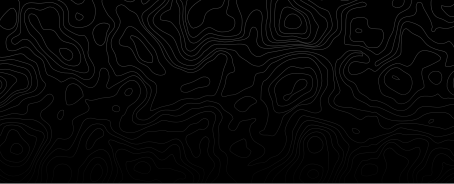
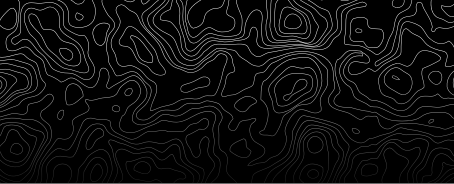
Even more dark mode updates

diff --git a/screens/LandingScreen.js b/screens/LandingScreen.js
@@ -6,7 +6,8 @@ import { spacing } from '../constants/Index';
 import { RootView } from '../styles/Screens';
 import { withTheme } from '../utils/Themes';
 
-const backgroundImg = require('../assets/landing-bg.png');
+const backgroundImageDefault = require('../assets/default/landing-bg.png');
+const backgroundImageDark = require('../assets/dark/landing-bg.png');
 
 class LandingScreen extends React.Component {
     constructor(props) {
@@ -33,17 +34,30 @@ class LandingScreen extends React.Component {
                 }),
             ]),
         ).start();
+
+        this.setBackgroundImage();
     }
 
+    setBackgroundImage = () => {
+        const { theme } = this.props;
+        let backgroundImage = backgroundImageDefault;
+
+        if (theme.dark) {
+            backgroundImage = backgroundImageDark;
+        }
+
+        this.setState({ backgroundImage });
+    };
+
     render() {
-        const { left } = this.state;
+        const { left, backgroundImage } = this.state;
         const { navigation, theme } = this.props;
 
         return (
             <ThemeProvider theme={theme.colors}>
                 <RootView>
                     <AnimatedBackgroundWrapper style={{ left }}>
-                        <LandingBackground source={backgroundImg} />
+                        <LandingBackground source={backgroundImage} />
                     </AnimatedBackgroundWrapper>
                     <ButtonWrapper>
                         <LandingButton

diff --git a/components/LoadingOverlay.js b/components/LoadingOverlay.js
@@ -2,7 +2,7 @@ import React from 'react';
 import PropTypes from 'prop-types';
 import styled from 'styled-components';
 import { ActivityIndicator, Keyboard } from 'react-native';
-import { colors } from '../constants/Index';
+import { withTheme } from '../utils/Themes';
 
 const propTypes = {
     loading: PropTypes.bool,
@@ -22,14 +22,14 @@ class LoadingOverlay extends React.Component {
     }
 
     render() {
-        const { loading } = this.props;
+        const { loading, theme } = this.props;
 
         return (
             <LoadingView loading={loading}>
                 <ActivityView>
                     <ActivityIndicator
                         size='small'
-                        color={colors.grayDark}
+                        color={theme.loadingSpinner}
                         style={{
                             zIndex: 1,
                             transform: [{ scaleX: 1.5 }, { scaleY: 1.5 }],
@@ -44,7 +44,7 @@ class LoadingOverlay extends React.Component {
 LoadingOverlay.propTypes = propTypes;
 LoadingOverlay.defaultProps = defaultProps;
 
-export default LoadingOverlay;
+export default withTheme(LoadingOverlay);
 
 const ActivityView = styled.View`
     flex: 1;
@@ -59,5 +59,5 @@ const LoadingView = styled.View`
     right: 0;
     bottom: 0;
     opacity: 0.8;
-    background-color: ${colors.white};
+    background-color: ${(props) => props.theme.rootBackground};
 `;

diff --git a/components/ProfileHeader.js b/components/ProfileHeader.js
@@ -14,8 +14,8 @@ import {
 import { showModal } from '../actions/Modal';
 import { withTheme } from '../utils/Themes';
 
-const BACKGROUND_IMAGE_DEFAULT = require('../assets/default/profile-bg.png');
-const BACKGROUND_IMAGE_DARK = require('../assets/dark/profile-bg.png');
+const backgroundImageDefault = require('../assets/default/profile-bg.png');
+const backgroundImageDark = require('../assets/dark/profile-bg.png');
 
 const linkStyle = {
     position: 'absolute',
@@ -56,6 +56,9 @@ class ProfileHeader extends React.PureComponent {
     constructor(props) {
         super(props);
         this.state = {};
+    }
+
+    componentDidMount() {
         this.setHeaderImage();
     }
 
@@ -65,10 +68,10 @@ class ProfileHeader extends React.PureComponent {
 
     setHeaderImage = () => {
         const { theme } = this.props;
-        let backgroundImage = BACKGROUND_IMAGE_DEFAULT;
+        let backgroundImage = backgroundImageDefault;
 
         if (theme.dark) {
-            backgroundImage = BACKGROUND_IMAGE_DARK;
+            backgroundImage = backgroundImageDark;
         }
 
         this.setState({ backgroundImage });

diff --git a/constants/Themes.js b/constants/Themes.js
@@ -35,9 +35,19 @@ export const defaultTheme = {
         // Images
         thumbnailBackground: colors.lightGray,
 
+        // Buttons
+        buttonBackgroundPrimary: colors.purple,
+        buttonBackgroundSecondary: colors.white,
+        buttonInputText: colors.purple,
+
+        // Inputs
+        inputPlaceholderText: colors.mediumGray,
+        inputBackground: colors.white,
+
         // Loading
         loadingPrimary: colors.cardGray,
         loadingSecondary: colors.white,
+        loadingSpinner: colors.grayDark,
     },
 };
 
@@ -74,9 +84,19 @@ export const darkTheme = {
         // Images
         thumbnailBackground: colors.nearBlack,
 
+        // Buttons
+        buttonBackgroundPrimary: colors.nearBlack,
+        buttonBackgroundSecondary: colors.black,
+        buttonInputText: colors.white,
+
+        // Inputs
+        inputPlaceholderText: colors.mediumGray,
+        inputBackground: colors.trueBlack,
+
         // Loading
         loadingPrimary: colors.black,
         loadingSecondary: colors.loadingBlack,
+        loadingSpinner: colors.white,
     },
 };
 

diff --git a/components/LandingButton.js b/components/LandingButton.js
@@ -39,7 +39,9 @@ export default LandingButton;
 
 const Button = styled.View`
     background-color: ${(props) =>
-        props.primary ? colors.purple : colors.white};
+        props.primary
+            ? props.theme.buttonBackgroundPrimary
+            : props.theme.buttonBackgroundSecondary};
     border-radius: ${borderRadius.medium}px;
     margin: ${(props) => props.buttonMargin || `0 ${spacing.medium}px`};
     border: 1px solid ${colors.lightGray};
@@ -47,7 +49,7 @@ const Button = styled.View`
 `;
 
 const ButtonText = styled.Text`
-    color: ${(props) => (props.primary ? colors.white : colors.black)};
+    color: ${(props) => (props.primary ? colors.white : props.theme.text)};
     font-weight: ${fontWeights.bold};
     font-size: ${fontSizes.extraLarge}px;
     text-align: center;

diff --git a/components/InputLabelGroup.js b/components/InputLabelGroup.js
@@ -87,7 +87,7 @@ const LabelInputGroup = styled.View`
 `;
 
 const InputLabel = styled.Text`
-    color: ${colors.black};
+    color: ${(props) => props.theme.text};
     font-size: ${fontSizes.medium}px;
     font-weight: ${fontWeights.bold};
     display: flex;
@@ -95,8 +95,10 @@ const InputLabel = styled.Text`
     width: 95px;
 `;
 
-const Input = styled.TextInput`
-    color: ${colors.black};
+const Input = styled.TextInput.attrs((props) => ({
+    placeholderTextColor: props.theme.inputPlaceholderText,
+}))`
+    color: ${(props) => props.theme.text};
     font-size: ${fontSizes.medium}px;
     display: flex;
     flex: 1;

diff --git a/components/InputButton.js b/components/InputButton.js
@@ -43,14 +43,14 @@ export default InputButton;
 
 const ButtonView = styled.View`
     margin-top: 20px;
-    background-color: ${colors.white};
+    background-color: ${(props) => props.theme.inputBackground};
     border: 1px solid ${colors.lightGray};
     border-left-width: 0;
     border-right-width: 0;
 `;
 
 const ButtonText = styled.Text`
-    color: ${colors.purple};
+    color: ${(props) => props.theme.buttonInputText};
     font-weight: ${fontWeights.medium};
     font-size: ${fontSizes.large}px;
     text-align: center;
